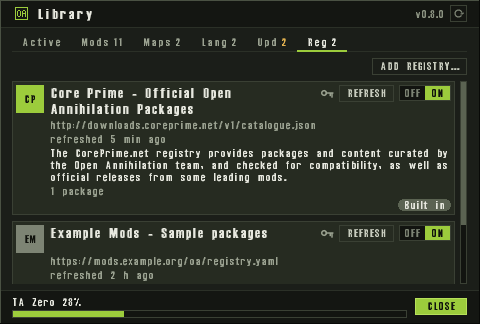
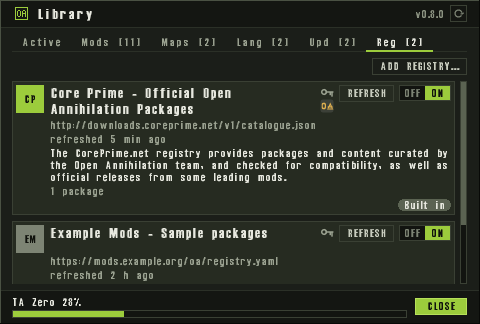
(docs) Describe the maker marks and redraw the Library pictures
The Registries cards show the badge under Core Prime's key, and the Languages tab shows it under the check on 简体中文.

diff --git a/src/ui/kit/README.md b/src/ui/kit/README.md
@@ -97,8 +97,10 @@ contract from version 15 (`src/app/include/oa/app/extension.hpp`).
 - `looks.hpp`: how a control looks. A look owns its texts. A text field's
   state, `TextField`, is its text and its caret. A picture item draws its
   `PictureLook`'s picture, such as a mod's badge, or else the canvas's icon.
-  `StateIcon` names the three state icons: a circled check, a circled
-  up-arrow and a download arrow.
+  `StateIcon` names the state icons: a circled check, a circled up-arrow,
+  a download arrow, a key, and the two maker's marks (the OA badge and
+  the bone). `MakerMark` on a list row draws one of those marks under the
+  row's state icon.
 - `canvas.hpp`: the canvas the components draw on, `Canvas`, in its two
   forms, and the primitives every draw function draws through: `fill_rect`,
   `blend_rect`, `outline_rect`, `bevel_rect`, `rule_rect`, `box_text`,
@@ -108,13 +110,17 @@ contract from version 15 (`src/app/include/oa/app/extension.hpp`).
   (a colour blended through a map of one byte a pixel).
 - `components.hpp`: the controls, drawn through the canvas's primitives on
   either form. One button, five looks. `draw_state_icon` draws a state
-  icon in one colour, filling a square of a rectangle's shorter side: its
-  ring and strokes, from a design of 24 units (the ring 2 units wide, its
+  icon, filling a square of a rectangle's shorter side. A circled check,
+  a circled up-arrow, a download arrow and a key are one colour: their
+  rings and strokes, from a design of 24 units (the ring 2 units wide, its
   outer edge a unit in, every stroke 2.5 units wide with round ends), are
   worked out at the canvas's own pixels, each pixel's share counted from
   16 samples in integers, and drawn through `blend_coverage`, so the icon
   keeps its edges at 1x, 2x, 3x and 150% alike and never scales a picture
-  or a one-bit mark. `paint` draws a display list. The
+  or a one-bit mark. The OA badge and the bone are filled shapes sampled
+  the same way, in their own colours, and ignore the colour passed in:
+  the badge is a rounded plate with the letters in the lock colour, and
+  the bone is off-white with a dark outline. `paint` draws a display list. The
   OA button (`draw_oa_button`, `OaButtonLook`) may wear the kit's attention
   dot, as the main menu's does while updates wait: a disc
   `oa_button_dot_side` (7) points across in the warning token
@@ -584,12 +590,10 @@ own followers and test extensions in the same change; from 0.8.0 on, any
 change to a kit header raises the version.
 
 The gallery's stored pictures were taken before the pill samples, so they
-do not show the PILLS section. The gallery shows chips with their words
-only: a chip with a state icon
-is drawn by the same chip role, and showing it there would move the
-gallery's golden frames, so the icons are reviewed in the Library's
-pictures (`oa-ui-library-draw-test --frames`) until the gallery takes a
-sample of them.
+do not show the PILLS section. The Chips section shows the two maker's
+marks, the OA badge and the bone, as chips with no control. The other
+state icons are reviewed in the Library's pictures
+(`oa-ui-library-draw-test --frames`).
 
 Text is laid out and drawn left to right, one character after another, in
 the order it is stored: the kit has no right-to-left or bidirectional

diff --git a/docs/library.md b/docs/library.md
@@ -173,6 +173,27 @@ details. Anywhere else on the row, a press only chooses it. To automation
 they are `oa.library.row.<registry>.<key>.get` and `.update`
 ([automation](automation.md#the-library)).
 
+Under that icon, the same size and centred on it, a package from a
+built-in registry may show who made it. Open Annihilation's own packages
+show a small OA badge. Cavedog's show a bone, off-white with a dark
+outline. The name is the catalogue's `author`, or, when that listing
+names none, the installed manifest's `author.name`, or, when neither
+names one, the listing's publisher: "OpenAnnihilation", "Open
+Annihilation" or "OA team" for the badge, and "Cavedog Entertainment"
+for the bone, ignoring case and space at either end. A named author
+that is not one of these does not fall through, so another maker's
+package listed on Core Prime shows no mark even when its publisher is
+the OA team. Core Prime's language packs name no author and are
+published as "OA team", so they show the badge. A package you added
+yourself, or one from a registry you added, shows no mark whatever its
+author says: an author name is free text. A row with no state icon
+still puts the mark in that column. The rows do not grow to make room;
+at every size class the mark fits under the icon. When a mark shows,
+the row's read text gains " · Open Annihilation" or " · Cavedog
+Entertainment". Its automation name does not change.
+
+![Languages, with 简体中文 installed from Core Prime: a green check, and the OA badge directly under it.](images/library/library-languages.png)
+
 A GET or UPDATE that cannot act has its icon dimmed and takes no press,
 and the details say why:
 
@@ -457,7 +478,10 @@ Each card shows:
 - the heading, which is the registry's title when it has one ("Core Prime
   - Official Open Annihilation Packages") and its short name when it does
   not;
-- a key icon, whole, in the title band at the card's right. Resting on it,
+- a key icon, whole, in the title band at the card's right. A built-in
+  registry whose author is Open Annihilation or Cavedog Entertainment
+  shows that maker's mark directly under the key, the same size, inside
+  the band. A registry you added shows no mark. Resting on the key,
   or moving the keys or the pad onto it, shows the keys its signatures are
   checked against: each key's fingerprint ("7001 · af50 · b971 · 5bb4")
   and its full public key (`ed25519:…`), and "built in" or "added by you",

diff --git a/docs/registries/descriptor.md b/docs/registries/descriptor.md
@@ -21,6 +21,7 @@ of file for a registry that uses the download API. The schema is
 | `name` | yes | 1 to 64 bytes of UTF-8, with no control character (C0, DEL, or U+007F to U+009F) and no byte that is not UTF-8. The short name, used everywhere except the card's heading. |
 | `title` | no | The card's heading, 1 to 96 characters when present. A character is one Unicode scalar value. Absent or omitted on write when empty: the card heads with `name`. |
 | `description` | no | A paragraph on the card, under the address and the refresh lines, 1 to 400 characters when present, counted the same way as `title`. Absent or omitted on write when empty: the card shows no paragraph. |
+| `author` | no | Who publishes the registry, 1 to 64 bytes of UTF-8 when present, with no control character, the same rule as `name`. Absent or omitted on write when empty. A built-in registry shows a maker's mark when this is Open Annihilation or Cavedog Entertainment ([the Library](../library.md)). |
 | `homepage` | no | An `http` or `https` address, opened only in a browser. |
 | `catalogue` | yes | An `http` or `https` address with no query. The catalogue file. |
 | `mirrors` | no | At most 8 other copies of the catalogue. Each is `http` or `https` with no query. Absent reads as none. |
@@ -115,9 +116,10 @@ the limit of 64 again; OA refuses the add that would pass it.
 
 Each added registry requires `id`, `name`, `catalogue`, `trusted-keys`,
 `downloads`, `added` and `enabled`. Optional, and empty when absent: `url`,
-`homepage`, `mirrors`, `player-mirrors`, `title`, `description`. Every value
-follows the descriptor rule for it. `title` and `description` are the card's
-heading and paragraph; `name` stays the short name. `trusted-keys` replaces
+`homepage`, `mirrors`, `player-mirrors`, `title`, `description`, `author`.
+Every value follows the descriptor rule for it. `title` and `description`
+are the card's heading and paragraph; `author` is who publishes the
+registry; `name` stays the short name. `trusted-keys` replaces
 the descriptor's `keys` and may be empty only for an unsigned registry. When
 a player types a signing key while adding by address, `trusted-keys` holds
 that one key and not the keys the descriptor named. `url` is where the descriptor was

diff --git a/docs/automation.md b/docs/automation.md
@@ -290,7 +290,7 @@ Its rows and their state icons are listed so:
 
 | Control | Name | Kind, and what it reports |
 |---|---|---|
-| A row of the list | `oa.library.row.<registry>.<key>`, or `oa.library.row.<key>` for a package of the player's own | check box, checked while chosen; its text the package's name |
+| A row of the list | `oa.library.row.<registry>.<key>`, or `oa.library.row.<key>` for a package of the player's own | check box, checked while chosen; its text the package's name, and " · Open Annihilation" or " · Cavedog Entertainment" when the row shows that maker's mark |
 | A row's download arrow, its GET | `oa.library.row.<registry>.<key>.get` | button, its text "GET", listed just before its row; disabled while the details offer no GET that can act: blocked, in the download queue, or failed |
 | A row's circled up-arrow, its UPDATE | `oa.library.row.<registry>.<key>.update` | button, its text "UPDATE", listed just before its row; disabled while the details offer no UPDATE that can act |
 | The details' buttons | `oa.library.action.get`, `.update`, `.cancel`, `.retry`, `.play-now`, `.switch-off`, `.roll-back`, `.uninstall`, `.open-folder`, `.homepage` | button, its text the button's words; SWITCH OFF stands in PLAY NOW's place on the mod being played, and both are listed disabled during a game and while the command line chose the mod. The Active tab's UNLOAD MOD (`oa.library.active.unload`) asks the same question |

diff --git a/src/ui/library/README.md b/src/ui/library/README.md
@@ -623,7 +623,9 @@ Compact and Large, and the Registries tab at Compact, Regular and Large:
 each twice, byte for byte the same, with nothing drawn outside the
 window and every pixel of it drawn, every part inside it and every text
 fitting. The Registries pictures dress the fixture's built-in registry as
-Core Prime, title, description and short name, on that copy only.
+Core Prime, title, description, author and short name, on that copy only.
+That author is Open Annihilation, so the card shows the OA mark under
+its key.
 `oa-ui-library-draw-test --data --frames DIR` also writes
 `library-compact.png`, `library-regular.png`, `library-large.png`,
 `library-details-compact.png`, `library-active-compact.png`,

diff --git a/docs/extensions/ui-kit.md b/docs/extensions/ui-kit.md
@@ -663,7 +663,9 @@ the language.
 The UI kit gallery shows every component of the kit, once working on its
 own model and once in each state (idle, hovered, pressed, focused,
 disabled, and locked where a component has a lock), at the scale and size
-class of the window. These pictures are the gallery's own, as its check,
+class of the window. The Chips section also shows the two maker's marks,
+the OA badge and the bone, at the state icon's size. These pictures are
+the gallery's own, as its check,
 `native-kit-gallery`, takes them on the main menu with `--snapshot`. They
 were taken before the pill samples, so they do not show the PILLS section.
 
